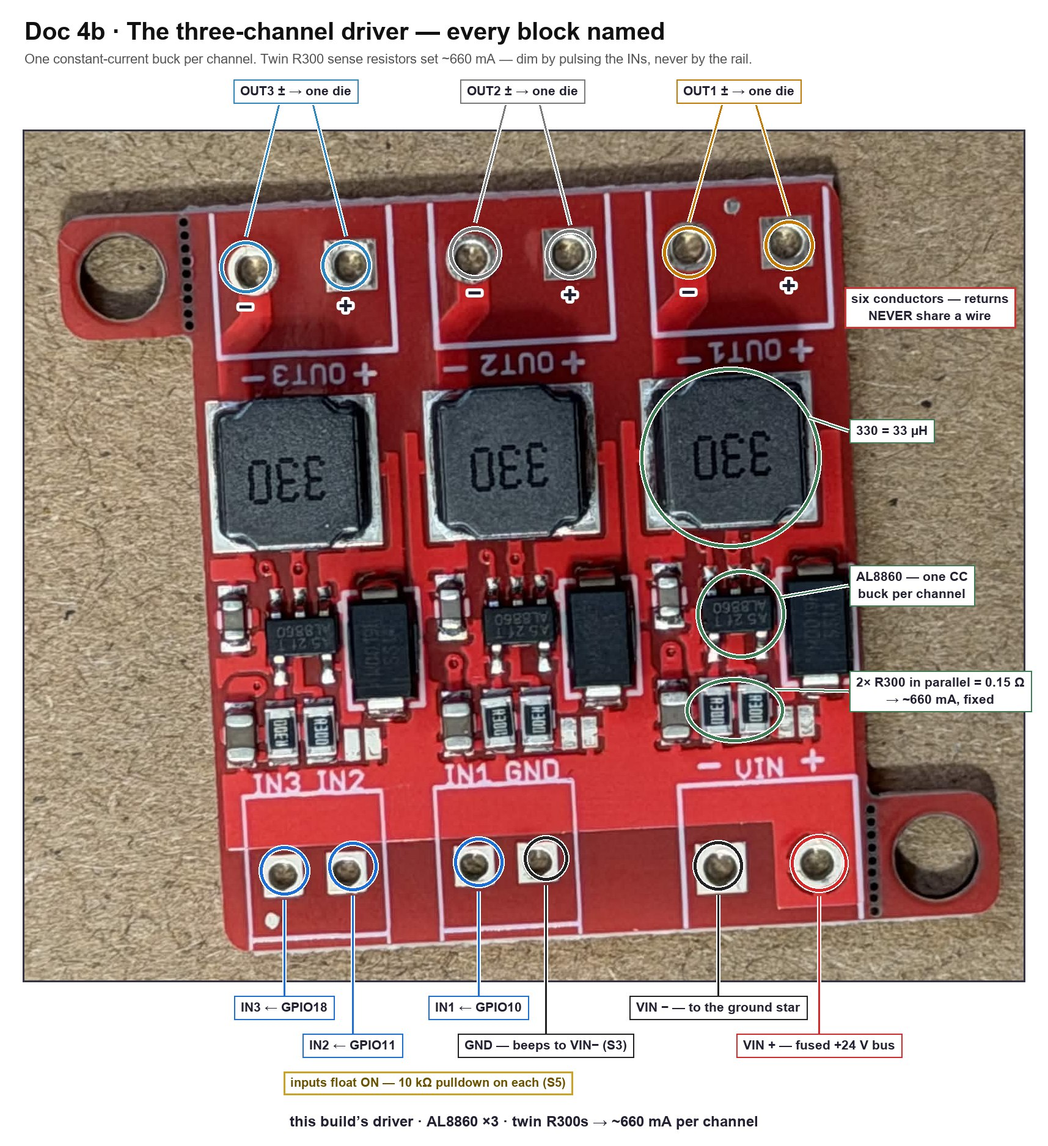
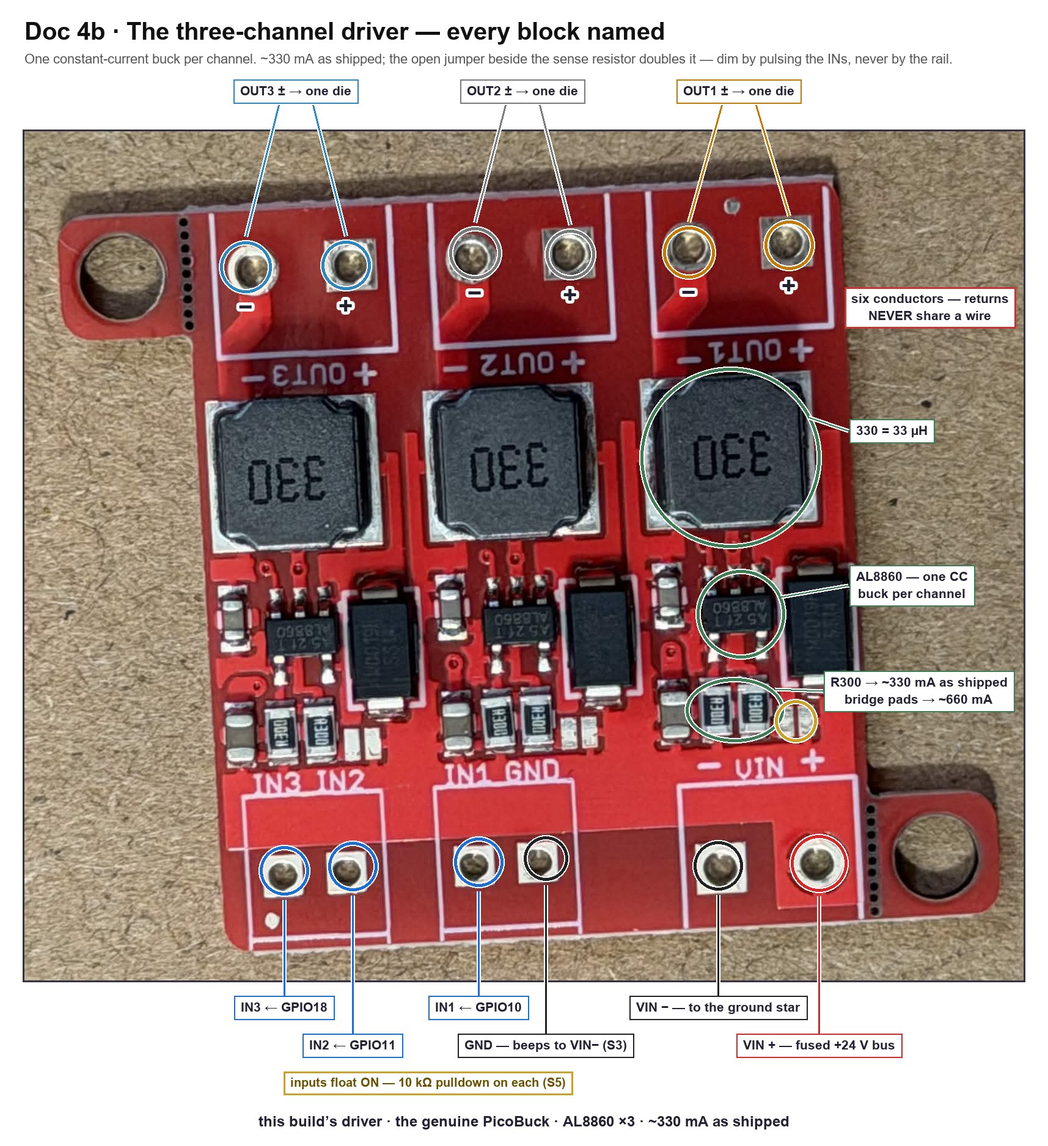
Doc 4b: the board was the PicoBuck all along, and it ships gentle
The twin R300s were real; the conclusion drawn from them was not. The builder
asked one grounding question - "I ordered the PicoBuck on the BoM though?" -
and SparkFun's own v1.2 schematic answered it: this is the genuine board,
AL8860 revision, snap-off ears, branding on the back. Each channel carries a
fixed 0.3-ohm sense resistor AND a second one behind solder jumper SJn, and a
zoom on the board shows all three jumpers open. As shipped: ~330 mA per
channel, exactly what the BoM promised. The ~660 reading came from seeing two
resistors and calling them parallel without tracing the second one's path
through the open pads sitting right beside them.

None of the wrong number ever published - it lived one unpushed commit deep -
so this lands as the true story rather than a public retraction: the driver
figure now rings the jumper itself (330 as shipped, bridge the pads for 660),
the plain-terms box tells a builder they own both settings with every lamp far
inside its comfort zone, the amber-ceiling warning moves to the only case it
belongs to (if a jumper is ever bridged, bridge the whites' and leave amber's
open), and the star's dissipation returns to ~3 W. The chapter closes by
turning the error into its own lesson: the board in your hand outranks a read
of a photograph, and a measurement outranks both.

The star also gets its photograph: the SJX-1 plate annotated from the
builder's own shot, and it earns its place by proving the S2 law on camera -
[…]

diff --git a/tools/figures/spot-star_gen.py b/tools/figures/spot-star_gen.py
@@ -1,0 +1,190 @@
+# -*- coding: utf-8 -*-
+"""
+spot-star_gen.py -- figure 'spot-star' for Doc 4b.
+Source photo: C:\\Claude\\PrototypeImages\\IMG_2507.jpg (2160x2880).
+ROTATION: none. The 'SJX-1 / LUXDRIVE' silkscreen at the plate's bottom edge
+reads upright in the raw photo (verified by zoom-crop), so the photo is used as-is.
+All COORDS below are in SOURCE-PHOTO pixels of the unrotated IMG_2507.jpg.
+
+Printed polarity, transcribed from the plate's own silkscreen (zoom-crops):
+  top pair   : '+' printed above-left pad, '-' printed above-right pad
+  left pair  : '-' (bar, rotated ~vertical) beside UPPER pad, '+' (cross) beside LOWER pad
+  right pair : '+' (cross) beside UPPER pad, '-' (bar, rotated ~diagonal) beside LOWER pad
+  (a small printed square dot sits at (1596,1664) below the right die's corner;
+   it is NOT one of the +/- polarity glyphs and is left unannotated)
+"""
+import math
+from PIL import Image, ImageDraw, ImageFont
+
+SRC = r"C:\Claude\PrototypeImages\IMG_2507.jpg"
+OUT = r"C:\Users\Marcelo\AppData\Local\Temp\claude\C--Claude-gimbal-bench\bc442eb3-8a91-49f8-a2b1-fd632e9c7a40\scratchpad\anno\spot-star.jpg"
+
+COORDS = {
+    # crop of the source photo used as the figure photo (tight to star, ~60px margin)
+    "crop": (715, 1080, 1820, 2175),
+    "hole_center": (1235, 1635),
+    # LED die (package) centers
+    "die_left": (1065, 1505),
+    "die_right": (1520, 1525),
+    "die_bottom": (1245, 1900),
+    # solder-pad centers, grouped as the three electrical +/- pairs
+    "pad_top_left": (1224, 1387),      # printed '+'
+    "pad_top_right": (1354, 1394),     # printed '-'
+    "pad_left_upper": (1022, 1682),    # printed '-'
+    "pad_left_lower": (1072, 1815),    # printed '+'
+    "pad_right_upper": (1508, 1732),   # printed '+'
+    "pad_right_lower": (1433, 1838),   # printed '-'
+    # positions of the plate's own printed polarity glyphs (for reference / kept clear)
+    "print_top_plus": (1205, 1283),
+    "print_top_minus": (1363, 1297),
+    "print_left_minus": (911, 1704),
+    "print_left_plus": (976, 1849),
+    "print_right_plus": (1588, 1780),
+    "print_right_minus": (1497, 1910),
+    "print_right_dot_not_polarity": (1596, 1664),
+}
+
+AMBER = "#c47a00"
+GREY = "#7a7a7a"
+BLUE = "#2e86c1"
+GREEN = "#3f7c55"
+INK = "#333344"
+TXT = "#222233"
+
+F = lambda n, s: ImageFont.truetype(n, s)
+arialbd = r"C:\Windows\Fonts\arialbd.ttf"
+arial = r"C:\Windows\Fonts\arial.ttf"
+
+W, H = 1800, 1446
+canvas = Image.new("RGB", (W, H), "#ffffff")
+d = ImageDraw.Draw(canvas)
+
+# ---------- photo ----------
+im = Image.open(SRC)
+cx0, cy0, cx1, cy1 = COORDS["crop"]
+photo = im.crop(COORDS["crop"])
+PX, PY = 340, 140  # photo top-left on canvas
+canvas.paste(photo, (PX, PY))
+pw, ph = photo.size
+
+def disp(p):
+    return (p[0] - cx0 + PX, p[1] - cy0 + PY)
+
+pd = ImageDraw.Draw(canvas)
+
+# ---------- ring helpers ----------
+def ring_ellipse(center, a, b, theta_deg, color, w_under=9, w_col=5):
+    cx, cy = center
+    th = math.radians(theta_deg)
+    pts = []
+    for i in range(121):
+        t = 2 * math.pi * i / 120
+        x = a * math.cos(t)
+        y = b * math.sin(t)
+        xr = cx + x * math.cos(th) - y * math.sin(th)
+        yr = cy + x * math.sin(th) + y * math.cos(th)
+        pts.append((xr, yr))
+    pd.line(pts, fill="#ffffff", width=w_under, joint="curve")
+    pd.line(pts, fill=color, width=w_col, joint="curve")
+
+def pair_ring(p1, p2, color, pad_reach=100, minor=80):
+    x1, y1 = disp(p1); x2, y2 = disp(p2)
+    cx, cy = (x1 + x2) / 2, (y1 + y2) / 2
+    dx, dy = x2 - x1, y2 - y1
+    half = math.hypot(dx, dy) / 2
+    theta = math.degrees(math.atan2(dy, dx))
+    ring_ellipse((cx, cy), half + pad_reach, minor, theta, color)
+    return (cx, cy)
+
+def leader(p_from, p_to, dot=True):
+    pd.line([p_from, p_to], fill="#ffffff", width=7)
+    pd.line([p_from, p_to], fill=INK, width=3)
+    if dot:
+        x, y = p_to
+        pd.ellipse([x - 7, y - 7, x + 7, y + 7], fill="#ffffff")
+        pd.ellipse([x - 5, y - 5, x + 5, y + 5], fill=INK)
+
+def label_box(x, y, lines, w, border=INK, font=None, pad=12, lh=27, fill="#ffffff", tcol=TXT):
+    font = font or F(arialbd, 20)
+    h = pad * 2 + lh * len(lines) - 5
+    pd.rectangle([x, y, x + w, y + h], fill=fill, outline=border, width=2)
+    for i, ln in enumerate(lines):
+        pd.text((x + pad, y + pad + i * lh), ln, font=font, fill=tcol)
+    return (x, y, x + w, y + h)
+
+def glyph(pos, ch, color, size=36):
+    x, y = disp(pos)
+    f = F(arialbd, size)
+    bb = pd.textbbox((0, 0), ch, font=f)
+    pd.text((x - (bb[0] + bb[2]) / 2, y - (bb[1] + bb[3]) / 2), ch, font=f,
+            fill=color, stroke_width=3, stroke_fill="#ffffff")
+
+MINUS = "\u2212"
+
+# ---------- rings (drawn before boxes so boxes sit on top) ----------
+top_c = pair_ring(COORDS["pad_top_left"], COORDS["pad_top_right"], AMBER, pad_reach=68, minor=72)
+left_c = pair_ring(COORDS["pad_left_upper"], COORDS["pad_left_lower"], GREY, pad_reach=68, minor=76)
+right_c = pair_ring(COORDS["pad_right_upper"], COORDS["pad_right_lower"], BLUE, pad_reach=68, minor=76)
+
+# green ring around ONE die (the right die) -- no color-identity claim
+gx, gy = disp(COORDS["die_right"])
+gx, gy, gr = gx - 3, gy - 15, 145
+ring_ellipse((gx, gy), gr, gr, 0, GREEN)
+
+# ---------- channel +/- glyphs on the pads, exactly as the print assigns them ----------
+glyph(COORDS["pad_top_left"], "+", AMBER)
+glyph(COORDS["pad_top_right"], MINUS, AMBER)
+glyph(COORDS["pad_left_upper"], MINUS, GREY)
+glyph(COORDS["pad_left_lower"], "+", GREY)
+glyph(COORDS["pad_right_upper"], "+", BLUE)
+glyph(COORDS["pad_right_lower"], MINUS, BLUE)
+
+# ---------- shared pairs label (central placement, below the center hole) ----------
+# leaders first, then the box on top of their near ends
+leader((940, 720), (930, 535))            # up to amber top-pair ring
+leader((700, 764), (748, 790))            # to grey left-pair ring
+leader((1020, 764), (1008, 806))          # to blue right-pair ring
+shared = label_box(695, 716, ["three \u00b1 pairs \u2014 one per", "driver channel, wired at S4"], 330)
+
+# ---------- green die label (right margin) ----------
+gbox = label_box(1478, 330, ["three lamps, one plate \u2014", "unlit they look alike;", "named by light at S8"], 302, border=GREEN)
+leader((1478, 392), (gx + gr * 0.88, gy - gr * 0.47))
+
+# ---------- aluminum plate label (left margin) ----------
+abox = label_box(18, 548, ["aluminum plate = the heat", "path \u2014 it mounts to the", "heatsink before anything", "else (S1)"], 302)
+leader((320, 618), (505, 645))
+
+# ---------- title / subtitle ----------
+pd.text((40, 28), "Doc 4b \u00b7 The star, on the plate itself", font=F(arialbd, 40), fill="#111111")
+pd.text((40, 82), "Three separate lamps and their printed \u00b1 marks \u2014 the polarity you flag at S2, "
+                  "and the dies you name by light at S8.", font=F(arial, 22), fill="#555555")
+
+# ---------- photo border ----------
+pd.rectangle([PX - 2, PY - 2, PX + pw + 1, PY + ph + 1], outline=INK, width=3)
+
+# ---------- captions ----------
+cap1 = "this build\u2019s star \u00b7 LuxDrive SJX-1 \u00b7 three isolated dies"
+f24 = F(arialbd, 24)
+bb = pd.textbbox((0, 0), cap1, font=f24)
+pd.text((PX + (pw - bb[2]) / 2, PY + ph + 14), cap1, font=f24, fill=TXT)
+cap2 = "ring colors = driver channels, not die colors"
+f20 = F(arialbd, 20)
+bb2 = pd.textbbox((0, 0), cap2, font=f20)
+pd.text((PX + (pw - bb2[2]) / 2, PY + ph + 50), cap2, font=f20, fill="#555555")
+
+# ---------- danger strip ----------
+ds_y0, ds_y1 = 1336, 1406
+pd.rectangle([40, ds_y0, W - 40, ds_y1], fill="#fdecec", outline="#cc3333", width=2)
+lead = "NEVER BARE, NEVER THE BUS \u2014 "
+rest = ("at this build\u2019s ~330 mA (as shipped) the star dissipates ~3 W; heatsink first, "
+        "wall-aimed always, and 24 V never touches these pads.")
+fb = F(arialbd, 22); fr = F(arial, 22)
+lw = pd.textbbox((0, 0), lead, font=fb)[2]
+rw = pd.textbbox((0, 0), rest, font=fr)[2]
+lx = 40 + (W - 80 - lw - rw) // 2
+ty = ds_y0 + (ds_y1 - ds_y0 - 26) // 2
+pd.text((lx, ty), lead, font=fb, fill="#8a1c1c")
+pd.text((lx + lw, ty), rest, font=fr, fill="#8a1c1c")
+
+canvas.save(OUT, quality=87)
+print("saved", OUT, canvas.size)

diff --git a/tools/figures/spot-driver_gen.py b/tools/figures/spot-driver_gen.py
@@ -32,7 +32,8 @@ COORDS = {
     # explainer components (channel 1 column, nearest VIN)
     "AL8860": (1462, 1470),  # SOT-25 marked "A5 2f T / AL8860"
     "IND330": (1445, 1214),  # power inductor marked "330" (33 uH)
-    "R300":   (1452, 1627),  # center of the ch1 sense PAIR - two R300s side by side
+    "R300":   (1452, 1627),  # center of the ch1 sense PAIR - R1 + its jumpered twin
+    "SJ":     (1552, 1645),  # the open solder jumper (SJ) that adds the twin in parallel
 }
 
 # ---------------- style ----------------
@@ -100,7 +101,7 @@ d.rectangle([PX - 3, PY - 3, PX + photo.width + 2, PY + photo.height + 2],
 # ---- title / subtitle ----
 d.text((40, 28), "Doc 4b \u00b7 The three-channel driver \u2014 every block named",
        font=F_TITLE, fill="#111111")
-d.text((40, 84), "One constant-current buck per channel. Twin R300 sense resistors set ~660 mA \u2014 "
+d.text((40, 84), "One constant-current buck per channel. ~330 mA as shipped; the open jumper beside the sense resistor doubles it \u2014 "
        "dim by pulsing the INs, never by the rail.", font=F_SUB, fill="#555555")
 
 # ---- rings ----
@@ -115,6 +116,7 @@ ring(d, COORDS["OUT1-"], 42, AMBER);    ring(d, COORDS["OUT1+"], 40, AMBER)
 ring(d, COORDS["AL8860"], 72, GREEN)
 ring(d, COORDS["IND330"], 147, GREEN)
 ring(d, COORDS["R300"], 80, GREEN, ry=52)
+ring(d, COORDS["SJ"], 34, "#c9a227")
 
 # ---- polarity glyphs at the OUT rings (per the print: + = square pad, - = round pad) ----
 F_PM = ImageFont.truetype(r"C:\Windows\Fonts\arialbd.ttf", 40)
@@ -149,7 +151,7 @@ leader(d, [(b[0] - 2, (b[1] + b[3]) // 2), (cvs(COORDS["IND330"])[0] + 128, cvs(
 b = label_box(d, 1390, 925, ["AL8860 \u2014 one CC", "buck per channel"], GREEN, anchor="left")
 leader(d, [(b[0] - 2, (b[1] + b[3]) // 2), (cvs(COORDS["AL8860"])[0] + 66, cvs(COORDS["AL8860"])[1] - 28)], GREEN)
 
-b = label_box(d, 1390, 1098, ["2\u00d7 R300 in parallel = 0.15 \u03a9", "\u2192 ~660 mA, fixed"], GREEN, anchor="left")
+b = label_box(d, 1348, 1098, ["R300 \u2192 ~330 mA as shipped", "bridge pads \u2192 ~660 mA"], GREEN, anchor="left")
 leader(d, [(b[0] - 2, (b[1] + b[3]) // 2), (cvs(COORDS["R300"])[0] + 66, cvs(COORDS["R300"])[1] - 34)], GREEN)
 
 # ---- input-edge labels (band below photo), leaders up to rings ----
@@ -172,7 +174,7 @@ label_box(d, 700, 1754, ["inputs float ON \u2014 10 k\u03a9 pulldown on each (S5
           CAUT_B, font=F_CAUT, text_color=CAUT_T, bw=3)
 
 # ---- caption under the photo ----
-cap = "this build\u2019s driver \u00b7 AL8860 \u00d73 \u00b7 twin R300s → ~660 mA per channel"
+cap = "this build’s driver · the genuine PicoBuck · AL8860 ×3 · ~330 mA as shipped"
 w = d.textbbox((0, 0), cap, font=F_CAP)[2]
 d.text(((CW - w) // 2, 1822), cap, font=F_CAP, fill=INK)
 

diff --git a/docs/04b-wire-the-spotlight.md b/docs/04b-wire-the-spotlight.md
@@ -28,7 +28,7 @@ Everything below is verified against the parts on this bench — the LuxDrive SJ
     | **Die** | One bare LED emitter. The star carries three, each electrically its own lamp. |
     | **Forward voltage (Vf)** | The voltage an LED happens to drop while conducting — for these dies, around 3 V. On the tape you *supplied* a voltage; here the driver supplies current and the ~3 V simply appears across the die. You never set it. |
     | **Buck driver** | A switching circuit that steps 24 V down efficiently. This board's version switches on and off thousands of times a second, watching the current and correcting it continuously. |
-    | **Sense resistor** | How the driver knows the current: a tiny resistor in the loop that the chip holds 0.1 V across. This board carries **two, marked R300** (0.30 Ω), side by side per channel — in parallel that is 0.15 Ω, and 0.1 V ÷ 0.15 Ω ≈ **660 mA**. The current is a property of the board, not a knob. |
+    | **Sense resistor** | How the driver knows the current: a tiny resistor in the loop that the chip holds 0.1 V across. This board carries **two, marked R300** (0.30 Ω), side by side per channel — but only one is connected as shipped: 0.1 V ÷ 0.30 Ω ≈ **330 mA**. The second waits behind an open **solder jumper**; bridge it and the pair reads 0.15 Ω ≈ 660 mA. The current is a property of the board — the jumper is its one factory-sanctioned knob. |
     | **MCPCB** | Metal-core PCB — the star's aluminum plate. Its whole job is moving heat from the dies into your heatsink. It is also why the star must never run bare. |
     | **Thermal adhesive** | The glue between star and heatsink. It conducts heat; air does not. Full-face contact, thin layer. |
     | **Duty floor** | The low end of PWM dimming where a CC driver's regulation gets twitchy — typically below ~5%. You will measure yours and write it down. |
@@ -59,7 +59,13 @@ The LuxDrive SJX-1 is **three separate lamps sharing one aluminum plate**. Each 
 
 This build's dies are **warm-white XP-E2, cool-white XP-E2, and PC Amber** — the maker's own star, per the [Doc 6 addendum](06-message-contract.md#the-spot-light-engine-is-one-entity-not-three). Unlit, the two whites are nearly indistinguishable and the amber is only a shade deeper. Do not decide from phosphor color. The naming happens at [S8](#first-power-and-first-light), by light.
 
-**S1 — the heatsink, before anything else.** Thermal adhesive, thin and full-face, star centered on the ≥2″×2″ heatsink from the BoM. Let it cure per its own instructions. At this build's driver current the star dissipates **~6 W** into a coin-sized plate — twice the reference build's ~3 W, because the driver runs ~660 mA per channel (below) — and bare, it climbs past safe junction temperature in well under a minute. There is no bare-star test, not even a one-second one.
+And here is the plate itself, with every printed mark found:
+
+![The real star annotated: three pad pairs ringed in the channel colors with the plate's own printed polarity beside each, one die ringed as the looks-alike example](assets/photo-anno-spot-star.jpg){ loading=lazy }
+
+Look closely at the three +/− transcriptions and notice they **do not match each other**: the top pair prints + on its left pad, the left pair prints − on its *upper* pad, the right pair + on its upper. Three pairs, three different orientations, one plate — which is exactly why S2's rule is *read the print beside each pair* and never "same as the last one."
+
+**S1 — the heatsink, before anything else.** Thermal adhesive, thin and full-face, star centered on the ≥2″×2″ heatsink from the BoM. Let it cure per its own instructions. The star dissipates **~3 W** into a coin-sized plate as shipped — and ~6 W if the driver's current jumpers are ever bridged (below) — and bare, it climbs past safe junction temperature in well under a minute. There is no bare-star test, not even a one-second one.
 
 **S2 — polarity, proven cold.** Two witnesses, in order:
 
@@ -75,10 +81,20 @@ This build's dies are **warm-white XP-E2, cool-white XP-E2, and PC Amber** — t
 
 ![This build's three-channel constant-current driver, annotated: the VIN block, the three logic inputs, the three output pairs, and the twin R300s that set each channel's current](assets/photo-anno-spot-driver.jpg){ loading=lazy }
 
-This is the board [Doc 4a told you to set aside until spotlight day](04a-wire-the-zones.md#the-chain-demystified). Spotlight day is today. What it is: **three independent constant-current buck converters on one PCB** — an AL8860 driver chip, a 33 µH inductor (the chunky "330" squares), and the sense resistors per channel. The chip holds 0.1 V across the sense, so the sense sets the current — and here the board has a correction to offer the site: **each channel carries *two* R300 resistors side by side**, and the parallel pair reads 0.15 Ω, so each channel forces **~660 mA** — not the ~330 mA an earlier read of this board assumed from a single R300 ([Doc 4a's line has the correction](04a-wire-the-zones.md#the-chain-demystified)). Brightness is not set by voltage and not set by the load — it is set by those resistors, and dimmed by pulsing the channel's input.
+This is the board [Doc 4a told you to set aside until spotlight day](04a-wire-the-zones.md#the-chain-demystified). Spotlight day is today. What it is: **the genuine SparkFun PicoBuck** — identified down to its published schematic — which is to say, **three independent constant-current buck converters on one PCB**: an AL8860 driver chip, a 33 µH inductor (the chunky "330" squares), and the sense resistors per channel. The chip holds 0.1 V across the sense, so the sense sets the current: one R300 always in the loop → **~330 mA as shipped**. And the pair of R300s you can see side by side per channel is not a mystery — the second one is the **660 mA option**, wired through the small open solder jumper beside them. Bridge that jumper and the twin joins in parallel; leave it open and it is just a passenger. Brightness is not set by voltage and not set by the load — it is set by that resistor, and dimmed by pulsing the channel's input.
 
-!!! warning "~660 mA and the amber die — the margin worth knowing"
-    The white XP-E2 dies are rated to 1 A, so ~660 mA leaves them a third of headroom. **PC Amber's absolute ceiling is 700 mA** — this driver sits under it by barely 6%. Inside rating, but with that margin S1's thermal path and S10's soak are load-bearing, not ceremonial: the number that keeps the amber die honest is the heatsink's temperature, and you check it, not hope it.
+!!! info "In plain terms — one lamp-feeder, two settings, and yours ships on the gentle one"
+    This board pushes a fixed amount of electricity through each lamp — there is no knob. But there *is* a switch: each channel has a pair of tiny bare pads, and a blob of solder across them moves that channel from the **gentle** setting (as shipped) to the **strong** one — about twice the push, so roughly twice the light and twice the heat. Your board arrived with all three switches open: gentle, everywhere, with every lamp far inside its comfort zone.
+
+    What that means at the bench:
+
+    - **Nothing needs ordering, and nothing runs near a limit.** Build as written.
+    - **The upgrade is already on the board.** If a lamp ever needs to be brighter, that channel's blob-switch is sitting there waiting — a one-minute soldering job, per channel, reversible with solder wick.
+    - **One lamp deserves care if you ever do it.** The two white lamps take the strong setting with room to spare; the amber one is rated only a little above it. Strong whites + gentle amber is the sensible combination, and the warning below has the numbers.
+    - **The heatsink rules are unchanged** — gentle still cooks a bare star in under a minute. The glue-down step and the ten-minute warm-check (S10) stay exactly as written.
+
+!!! warning "If you ever bridge a jumper — the amber margin"
+    At the bridged ~660 mA, the white XP-E2 dies (rated 1 A) keep a third of headroom; **PC Amber's absolute ceiling is 700 mA**, barely 6% above it. So if brighter ever matters, bridge the *whites'* jumpers and leave the amber's open — and re-run S10's soak afterward, because ~6 W is twice the heat the first soak proved. As shipped, with every jumper open, none of this is in play.
 
 Three pad groups, three jobs:
 
@@ -86,13 +102,13 @@ Three pad groups, three jobs:
 - **IN block** — `IN1`, `IN2`, `IN3`, and a `GND`. Logic-level dimming inputs: 3.3 V PWM from the C6, one pin per channel. The site's pin ledger reserves **GPIO10 → IN1, GPIO11 → IN2, GPIO18 → IN3**, at **500 Hz** — CC dim inputs want ~1 kHz or less, which is exactly why [Doc 4 stage 5](04-full-fixture-bench.md#stage-5-the-spotlight-constant-current) put these three signals on native pins instead of the PCA9685.
 - **OUT blocks** — `OUT1±`, `OUT2±`, `OUT3±`. One ± pair per die. **Six conductors, and the returns never share a wire** — each OUT− is that channel's own regulation loop back through its sense resistor; merge two returns and the chips read each other's current and regulate garbage.
 
-!!! note "This unit vs. the reference PicoBuck"
-    Doc 4's BoM names the SparkFun PicoBuck; the board on this bench is the same animal with different markings — AL8860s instead of AL8805s, same three-channel CC buck, same block layout, same wiring story. One difference matters: **the PicoBuck ships at 330 mA with a solder jumper to reach 660 — this board has no jumper because it is, in effect, permanently jumpered.** Its twin R300s fix ~660 mA per channel, full stop. Everything the reference docs say about "the 330/660 decision" is already decided on this board, in hardware.
+!!! note "This unit *is* the reference"
+    Doc 4's BoM names the SparkFun PicoBuck, and this board is that exact part — the current revision, verified against SparkFun's own v1.2 schematic: AL8860 per channel, a fixed 0.3 Ω sense (R1/R2/R3), a second 0.3 Ω (R4/R5/R6) behind per-channel solder jumpers (SJ1/SJ2/SJ3), and the perforated snap-off mounting ears. The branding lives on the back of the board, which is how a top-down photo once passed it off as a nameless clone. Open jumpers = 330 mA, the shipped state; bridged = 660.
 
 !!! trap "The inputs float ON"
     Leave an IN pin unconnected and that channel runs at full current. The C6's pins also float while it boots. Both facts together are [Doc 8's pulldown law](08-build-the-fixture.md#step-5-the-spotlight), inherited here at birth: **a 10 kΩ resistor from each IN to ground**, so the resting state of the whole spotlight is *dark*, and light only ever happens because firmware asked for it. S7 proves the pulldowns before the C6 is even powered — read it before you wire.
 
-**S3 — identify and ring out, unpowered.** Confirm you are holding the CC driver and not something from the tape chain: three AL8860s, three 330 inductors, a side-by-side pair of R300s per channel. The board ships with bare pads — solder its leads now, per [Doc 8's five rules](08-build-the-fixture.md#soldering-these-boards-five-rules): **solid-core 22 AWG stubs on the IN block** (they land in the breadboard, and solid is what breadboard clips grip — [Doc 3a's lesson](03a-wire-the-bench.md#where-wires-may-split-and-how)), **stranded silicone on VIN and the three OUT pairs** (they get handled, and they carry the current). Then one beep that buys a simpler bench: **VIN− ↔ the IN block's GND.** On this board they beep — one ground net — so a single ground wire to the star point serves both power return and logic reference. If your board's don't beep, wire the IN GND to the ground star separately, and trust the meter over this paragraph.
+**S3 — identify and ring out, unpowered.** Confirm you are holding the CC driver and not something from the tape chain: three AL8860s, three 330 inductors, a side-by-side pair of R300s per channel with a small open solder jumper beside each pair — **confirm all three jumpers are open** (bare pads, no bridge), because open is the gentle 330 mA state every number in this chapter assumes. The board ships with bare pads — solder its leads now, per [Doc 8's five rules](08-build-the-fixture.md#soldering-these-boards-five-rules): **solid-core 22 AWG stubs on the IN block** (they land in the breadboard, and solid is what breadboard clips grip — [Doc 3a's lesson](03a-wire-the-bench.md#where-wires-may-split-and-how)), **stranded silicone on VIN and the three OUT pairs** (they get handled, and they carry the current). Then one beep that buys a simpler bench: **VIN− ↔ the IN block's GND.** On this board they beep — one ground net — so a single ground wire to the star point serves both power return and logic reference. If your board's don't beep, wire the IN GND to the ground star separately, and trust the meter over this paragraph.
 
 ---
 
@@ -159,7 +175,7 @@ And the one reframe worth keeping: **dark at boot is not a fault.** It is the pu
 |---|---|---|---|---|
 | S1 | Before anything | Star mounted on heatsink, adhesive cured, full-face | No bare star, ever | Mount it now — there is no bare-star test |
 | S2 | Star, cold | Polarity flags from silkscreen; diode-mode glow if the meter can | Flags written; glow (if any) matches the printed + | No glow both ways = meter tops out — the print still rules |
-| S3 | Driver, unpowered | Identify (3× AL8860, 330s, twin R300s); leads soldered; VIN− ↔ IN-GND | Beeps — one ground net | No beep = wire IN GND to the star separately |
+| S3 | Driver, unpowered | Identify (3× AL8860, 330s, twin R300s, jumpers OPEN); leads soldered; VIN− ↔ IN-GND | Beeps — one ground net; three bare jumpers | No beep = wire IN GND to the star separately; a bridged jumper = that channel runs 660 |
 | S4 | Harness, unpowered | Each OUT lead ↔ its own star pad, + to + | Own pad beeps, neighbours silent | A crossed pair — fix it cold |
 | S5 | Inputs, unpowered | Each IN row ↔ its GPIO wire and its 10 kΩ | Own wires only; 10 kΩ far side to ground | Rewire before power |
 | S6 | Supply on, C6 off | 24 V across VIN pads | 24 V, star aimed at wall | Fuse, WAGO, leads |
@@ -174,10 +190,11 @@ And the one reframe worth keeping: **dark at boot is not a fault.** It is the pu
 
 Verified against primary documents rather than forum lore:
 
-- **Diodes Inc. AL8860 datasheet** — hysteretic buck LED driver: the 0.1 V mean sense threshold (with this board's twin R300s in parallel → ~660 mA), input voltage range, and PWM dimming behavior on the control pin
+- **Diodes Inc. AL8860 datasheet** — hysteretic buck LED driver: the 0.1 V mean sense threshold (over 0.30 Ω → ~330 mA as shipped), input voltage range, and PWM dimming behavior on the control pin
+- **SparkFun picoBuck v1.2 schematic** — the document that settled this board's identity and current: per channel, sense resistor R*n* fixed at 0.3 Ω plus a second 0.3 Ω behind solder jumper SJ*n*; open = ~330 mA, bridged = ~660 mA
 - **Cree XLamp XP-E2 datasheet** — forward voltage ~3 V class, and the ~5 V reverse-voltage ceiling behind this chapter's prove-polarity-cold rule
 - **LuxDrive / LEDdynamics SJX-1** 20 mm star — three electrically isolated die positions, per-die ± pads
 - **SparkFun PicoBuck hookup guide** — the reference board Doc 4's BoM names: same block layout, and the floats-ON behavior the pulldown law answers
 - Site cross-references: [Doc 4 stage 5](04-full-fixture-bench.md#stage-5-the-spotlight-constant-current) (the stage this chapter unpacks) · [Doc 4a](04a-wire-the-zones.md) (the tape-side habits this page reverses) · [Doc 8 step 5](08-build-the-fixture.md#step-5-the-spotlight) (the same wiring made permanent) · [Doc 6's addendum](06-message-contract.md#the-spot-light-engine-is-one-entity-not-three) (why three dies present as one light)
 
-Where this board and the reference PicoBuck disagree — the chip marking and the absent 660 mA jumper — this chapter describes the board on the bench.
+And a note on how this chapter got its numbers right: a first read of the board saw the twin R300s, missed the open jumper beside them, and called the channel current ~660 mA. The schematic and a zoom on the jumper pads corrected it to ~330 as shipped — which is the chapter's own S-checkpoint ethos applied to itself: the board in your hand outranks any read of a photograph, and a measurement outranks both.

diff --git a/docs/04a-wire-the-zones.md b/docs/04a-wire-the-zones.md
@@ -179,7 +179,7 @@ First, sort the parts box. One board in it looks like it belongs in this chain a
 
 ![The three-channel constant-current driver, banner-marked: spotlight only, never the tape](assets/photo-spotlight-driver-warning.jpg){ loading=lazy }
 
-This is the BoM's PicoBuck-class driver (this unit's chips read AL8860). **Correction to an earlier version of this sentence:** it said ~330 mA per channel, read off a single R300 sense resistor — the board carries **two** R300s per channel, and the parallel pair puts each channel at **~660 mA** ([Doc 4b has the math](04b-wire-the-spotlight.md#the-driver-demystified)). It forces a fixed **current** through three **separate** outputs — the tape is a fixed-**voltage**, common-anode part with one shared 24 V, so there is nothing here for it to connect to. Set it aside until spotlight day — that day's chapter is **[Doc 4b](04b-wire-the-spotlight.md)**. The rule runs both ways: the spotlight's bare LED star never touches the 24 V bus either.
+This is the BoM's PicoBuck itself — the genuine SparkFun board, identified down to its published schematic (chips read AL8860; the mounting ears are the PicoBuck's snap-off tabs; the branding is on the back). **~330 mA per channel as shipped** — the second sense resistor visible beside each channel's first is the 660 mA option, waiting behind an open solder jumper ([Doc 4b walks the board pad by pad](04b-wire-the-spotlight.md#the-driver-demystified)). It forces a fixed **current** through three **separate** outputs — the tape is a fixed-**voltage**, common-anode part with one shared 24 V, so there is nothing here for it to connect to. Set it aside until spotlight day — that day's chapter is **[Doc 4b](04b-wire-the-spotlight.md)**. The rule runs both ways: the spotlight's bare LED star never touches the 24 V bus either.
 
 And a fact both remaining boards share: **they ship bare.** The dimmer hubs and the spare brain all arrive with loose header strips. Solder the headers first — [Doc 8's five rules](08-build-the-fixture.md#soldering-these-boards-five-rules), big forgiving pads, and the best possible warm-up before the tape's small ones.
 

diff --git a/tools/figures/README.md b/tools/figures/README.md
@@ -17,3 +17,4 @@ run `python <name>_gen.py` — then copy the render over the published asset.
 | `uln-map_gen.py` | `photo-anno-uln-map.jpg` |
 | `a0-bridge_gen.py` | `photo-anno-a0-bridge.jpg` |
 | `spot-driver_gen.py` | `photo-anno-spot-driver.jpg` (input IMG_2453, rotated 180°) |
+| `spot-star_gen.py` | `photo-anno-spot-star.jpg` (input IMG_2507) |
